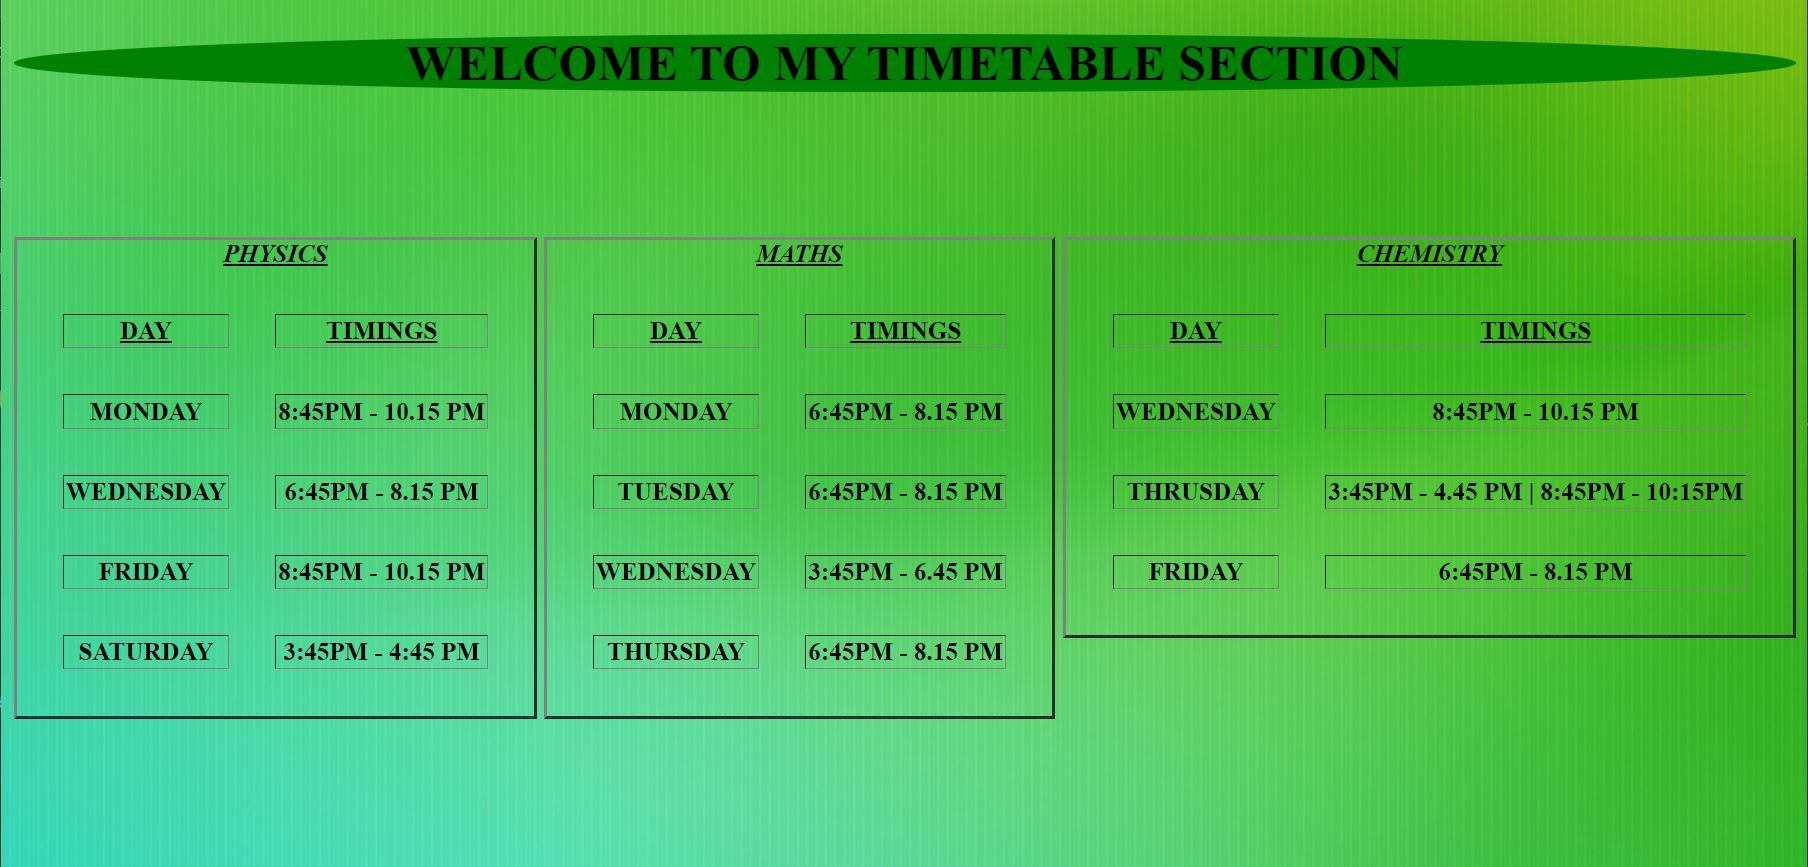
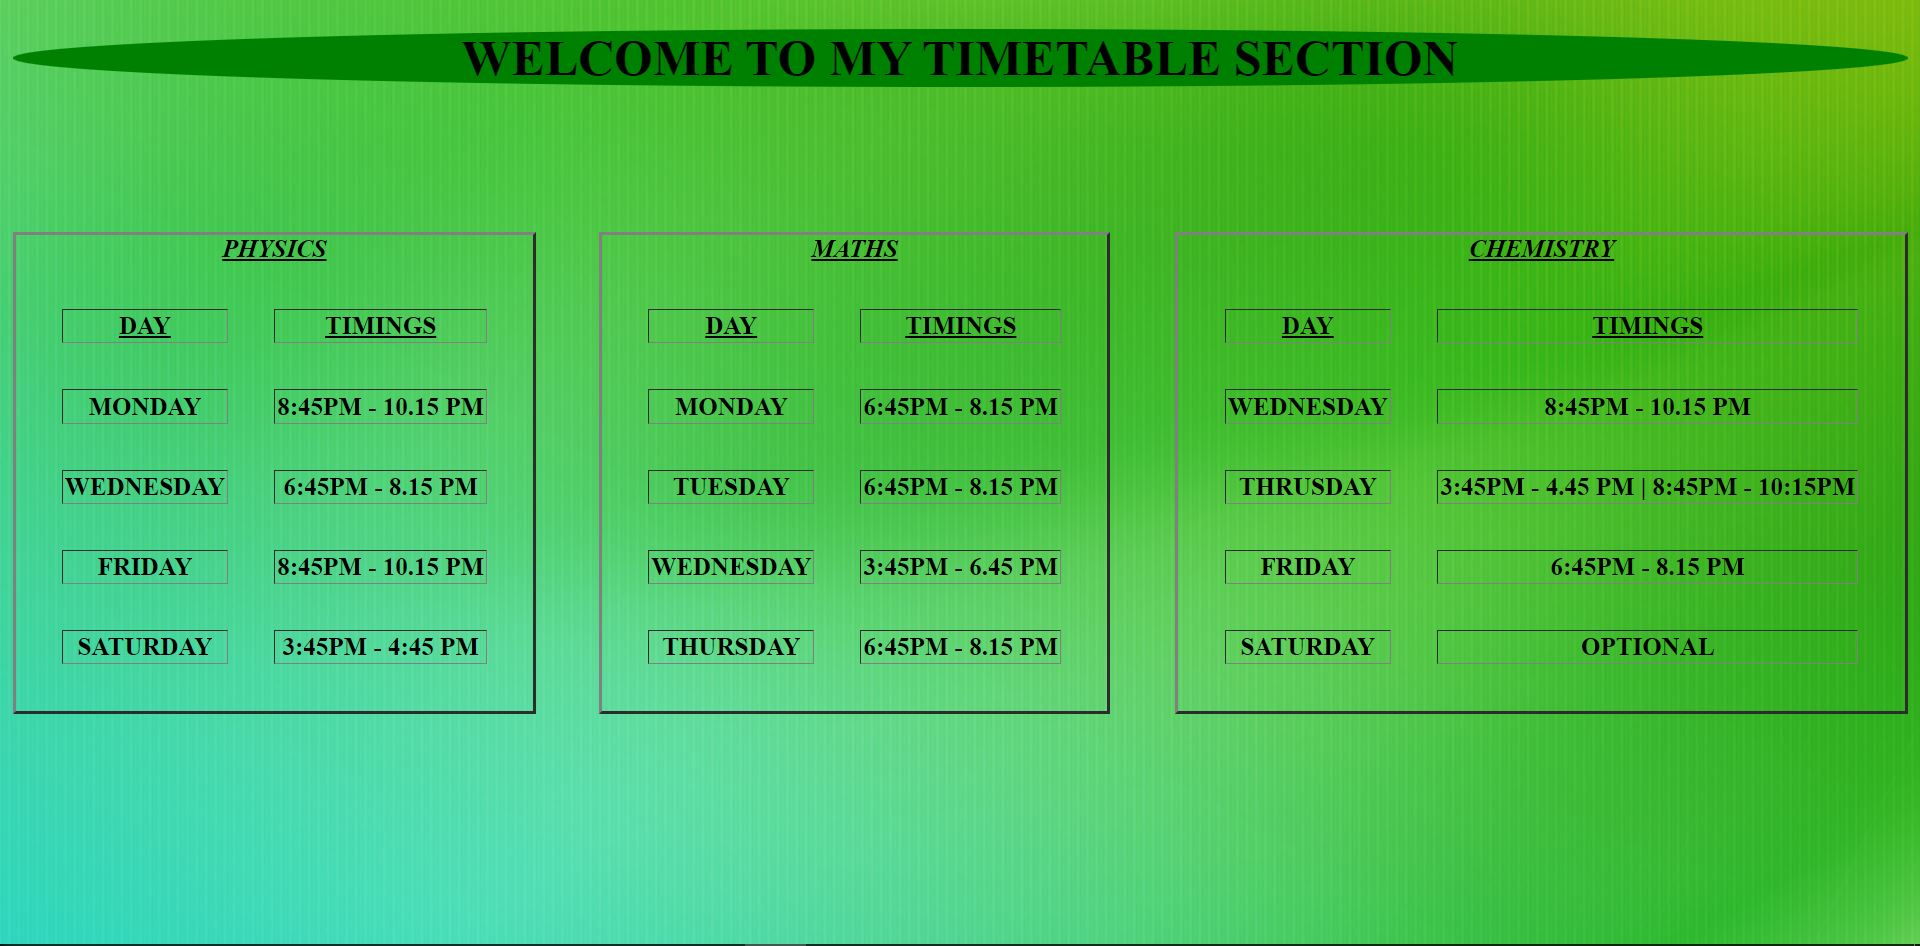
FINALLY DONE

Changed region(s): [[0.0, 0.0, 1.0, 1.0]]

diff --git a/TIMETABLE.HTML b/TIMETABLE.HTML
@@ -39,6 +39,7 @@
                 <TH>3:45PM - 4:45 PM</TH>
             </tr>
          </table>
+         &nbsp&nbsp&nbsp&nbsp&nbsp&nbsp&nbsp&nbsp
          <table   cellspacing="30" align="center" class="hello"  border="2">
             <caption><b><u><i>MATHS</i></u></b></caption>
             <tr>
@@ -81,6 +82,11 @@
                <th>FRIDAY</th>
                <TH>6:45PM - 8.15 PM</TH>
            </tr>
+           <tr>
+            <th>SATURDAY</th>
+            <TH>OPTIONAL</TH>
+        </tr>
+           
         </table>
 
 </body>
